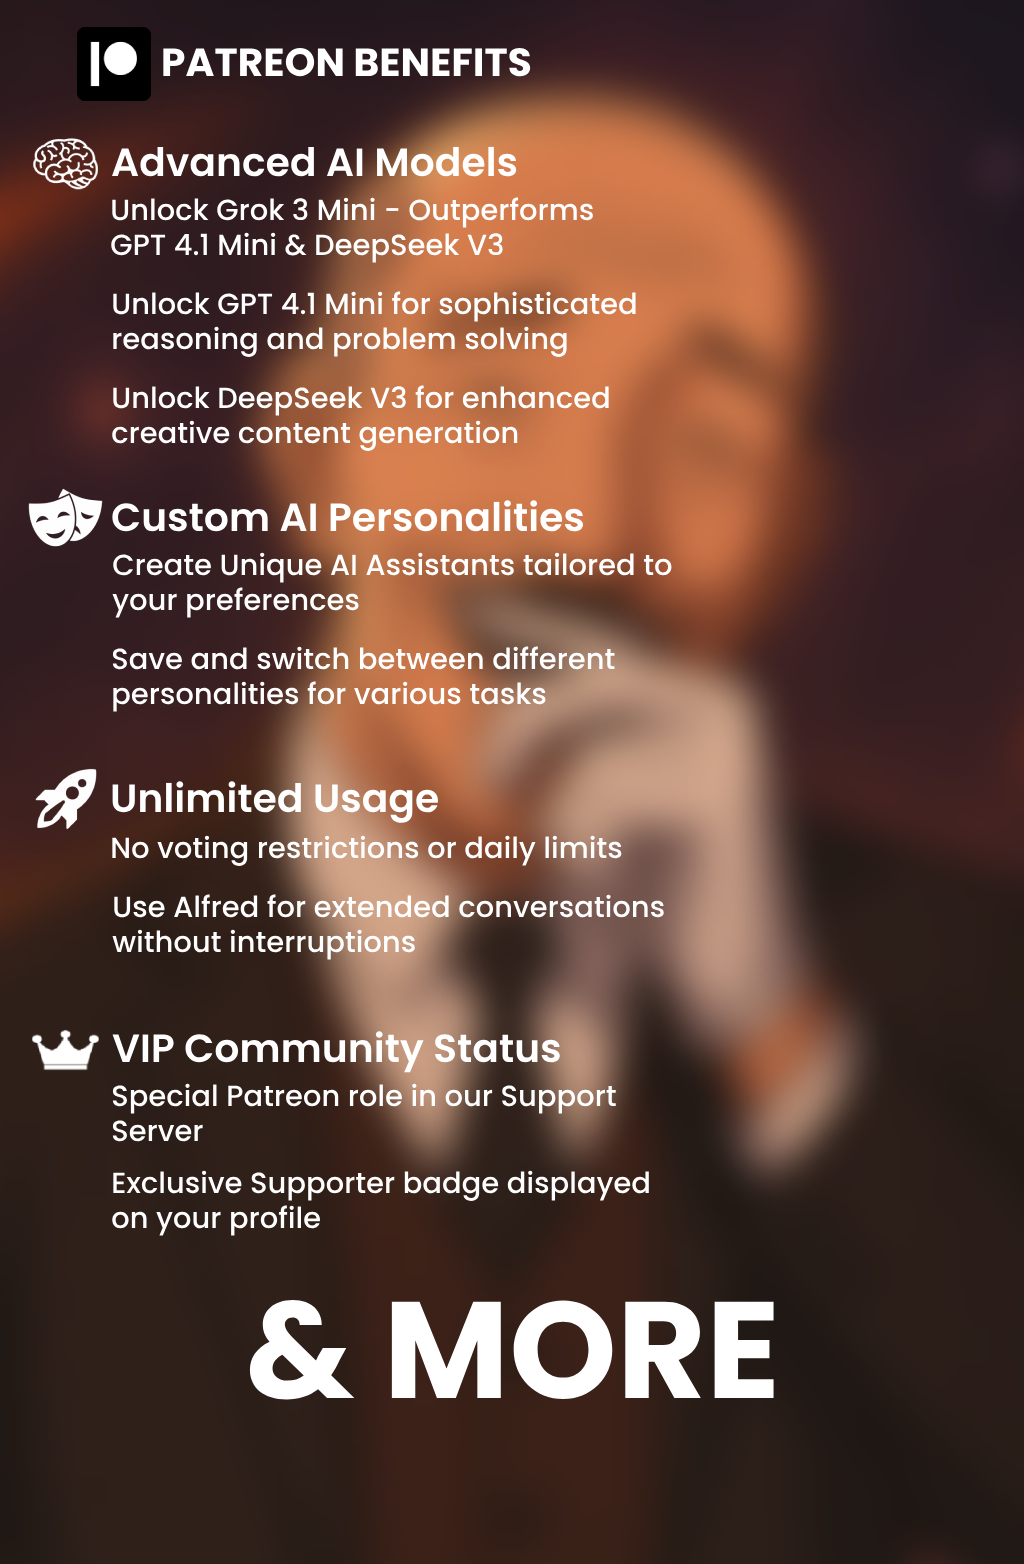
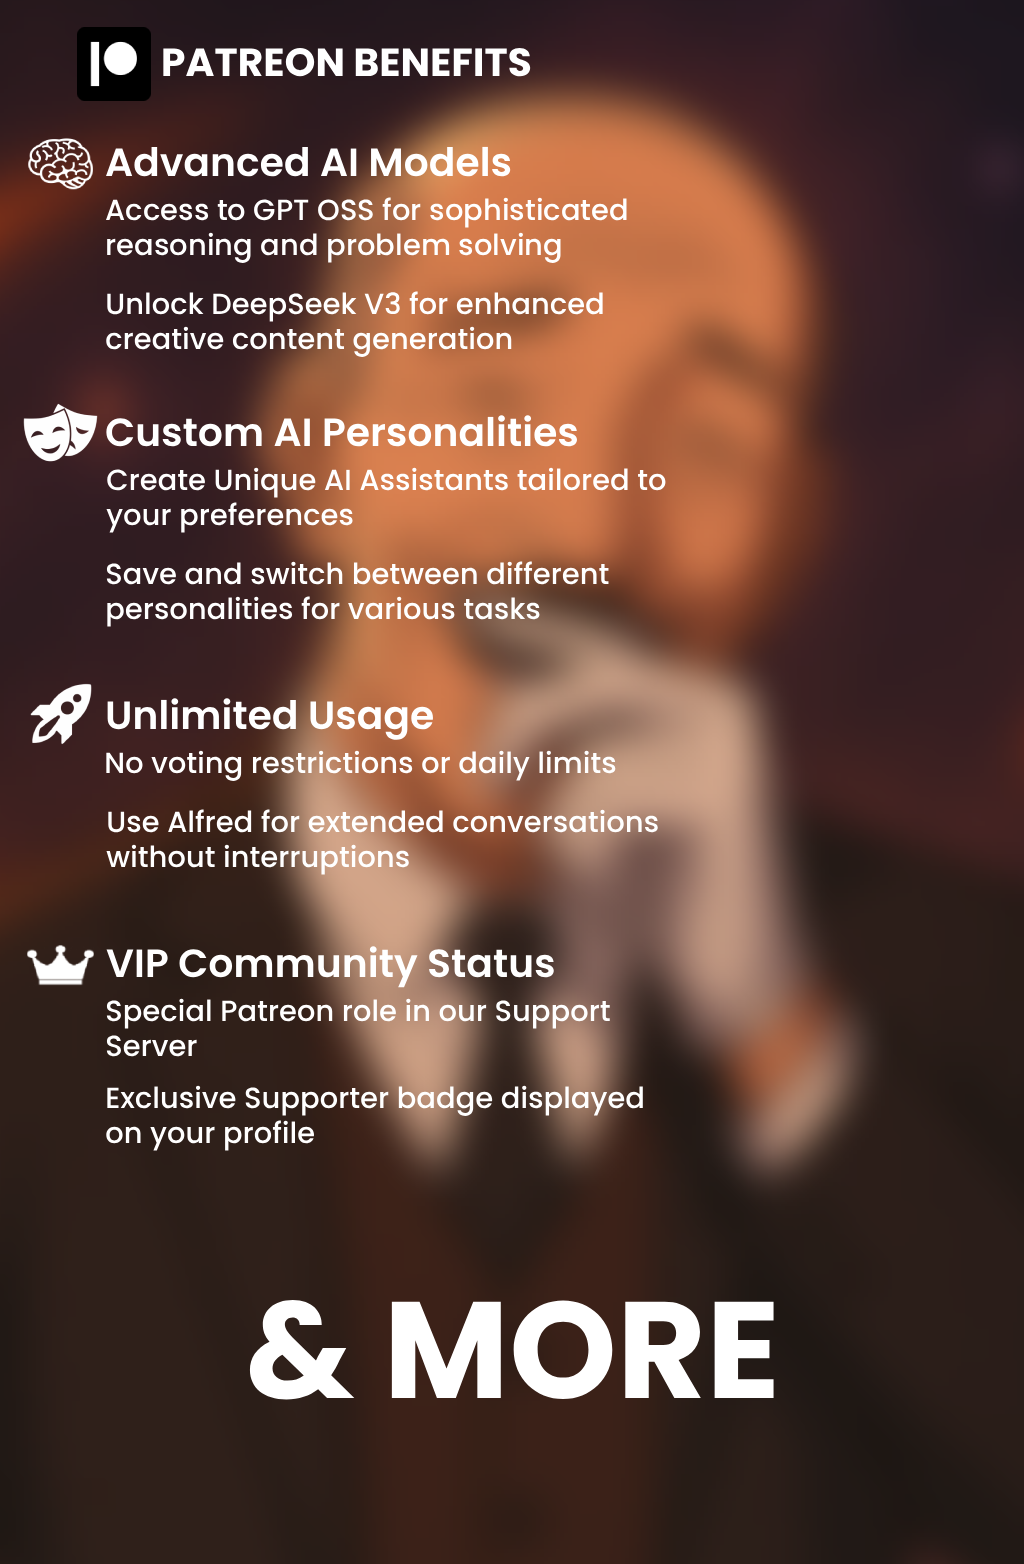
Update patreon features

Changed region(s): [[0.0312, 0.0921, 0.6562, 0.798]]

diff --git a/patreon.html b/patreon.html
@@ -172,7 +172,7 @@
                         <ul class="features-list">
                             <li><i class="fas fa-check"></i> All Supporter Tier Perks</li>
                             <li><i class="fas fa-infinity"></i> Unlimited Usage</li>
-                            <li><i class="fas fa-brain"></i> Exclusive AI Models (Grok, GPT-4.1 Mini)</li>
+                            <li><i class="fas fa-brain"></i> Exclusive AI Models (Grok, GPT OSS)</li>
                             <li><i class="fas fa-theater-masks"></i> Custom AI Personalities</li>
                             <li><i class="fas fa-expand-arrows-alt"></i> Image Upscaling & Enhancing</li>
                             <li><i class="fas fa-magic"></i> AI Prompt Enhancing</li>

diff --git a/documentation.html b/documentation.html
@@ -257,7 +257,7 @@
                         <li><strong>All Supporter Tier Perks</strong></li>
                         <li><strong>Unlimited Usage:</strong> Completely unlimited use of all features.</li>
                         <li><strong>Exclusive AI Models:</strong> Access our most powerful and creative AI models like
-                            Grok 3 Mini, GPT 4.1 Mini, and Deepseek V3.</li>
+                            Grok 3 Mini, GPT OSS, and Deepseek V3.</li>
                         <li><strong>Custom Personalities:</strong> Create, manage, and use your own unique AI
                             assistants.</li>
                         <li><strong>Image Upscaling & Enhancing:</strong> Improve image quality with
